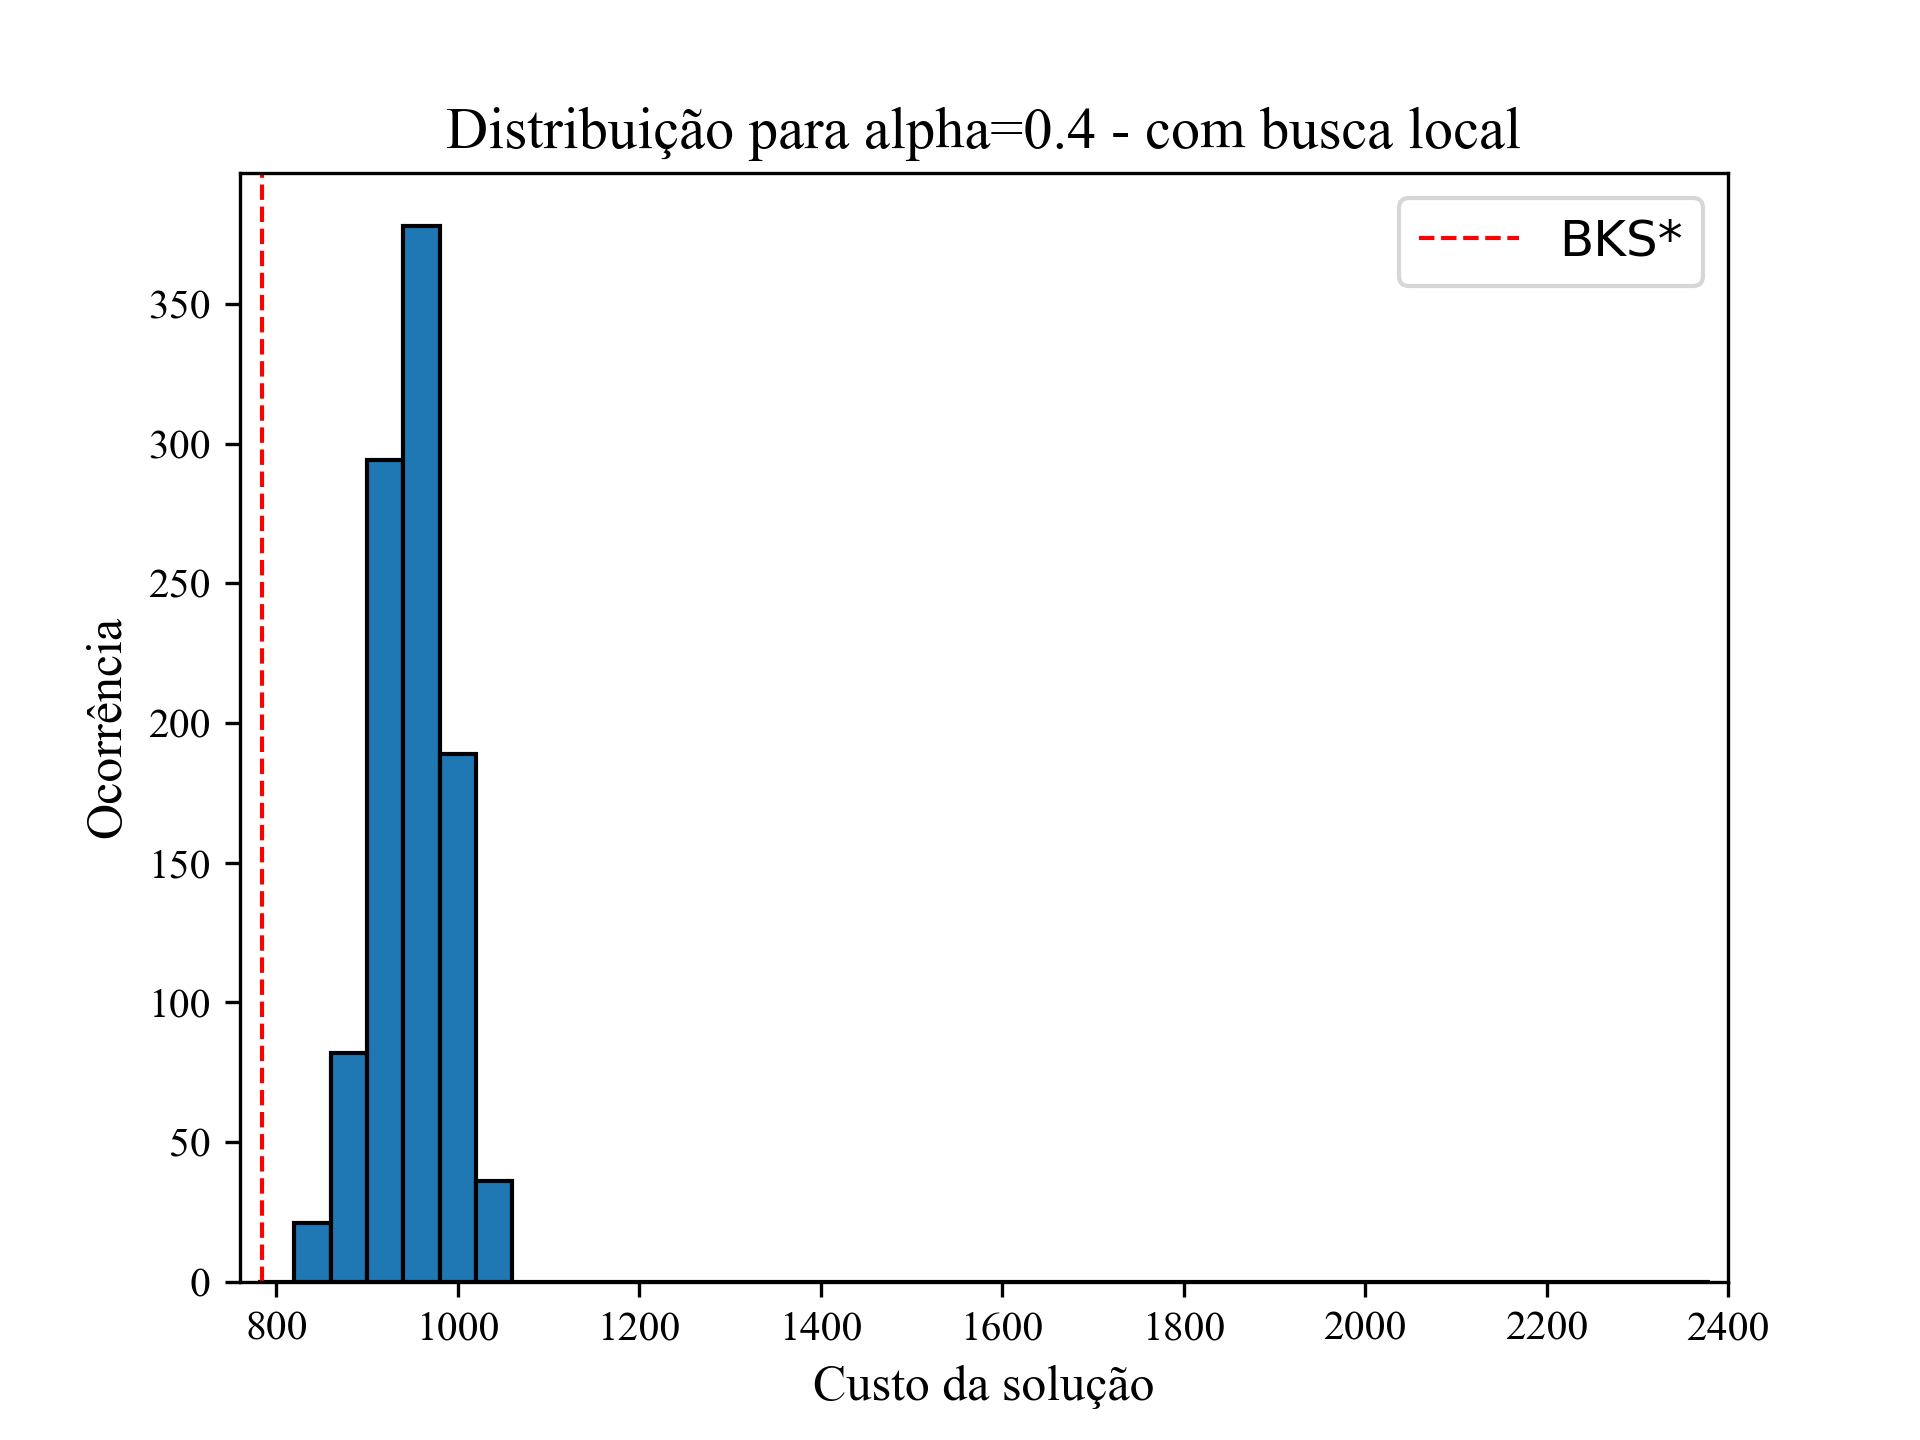
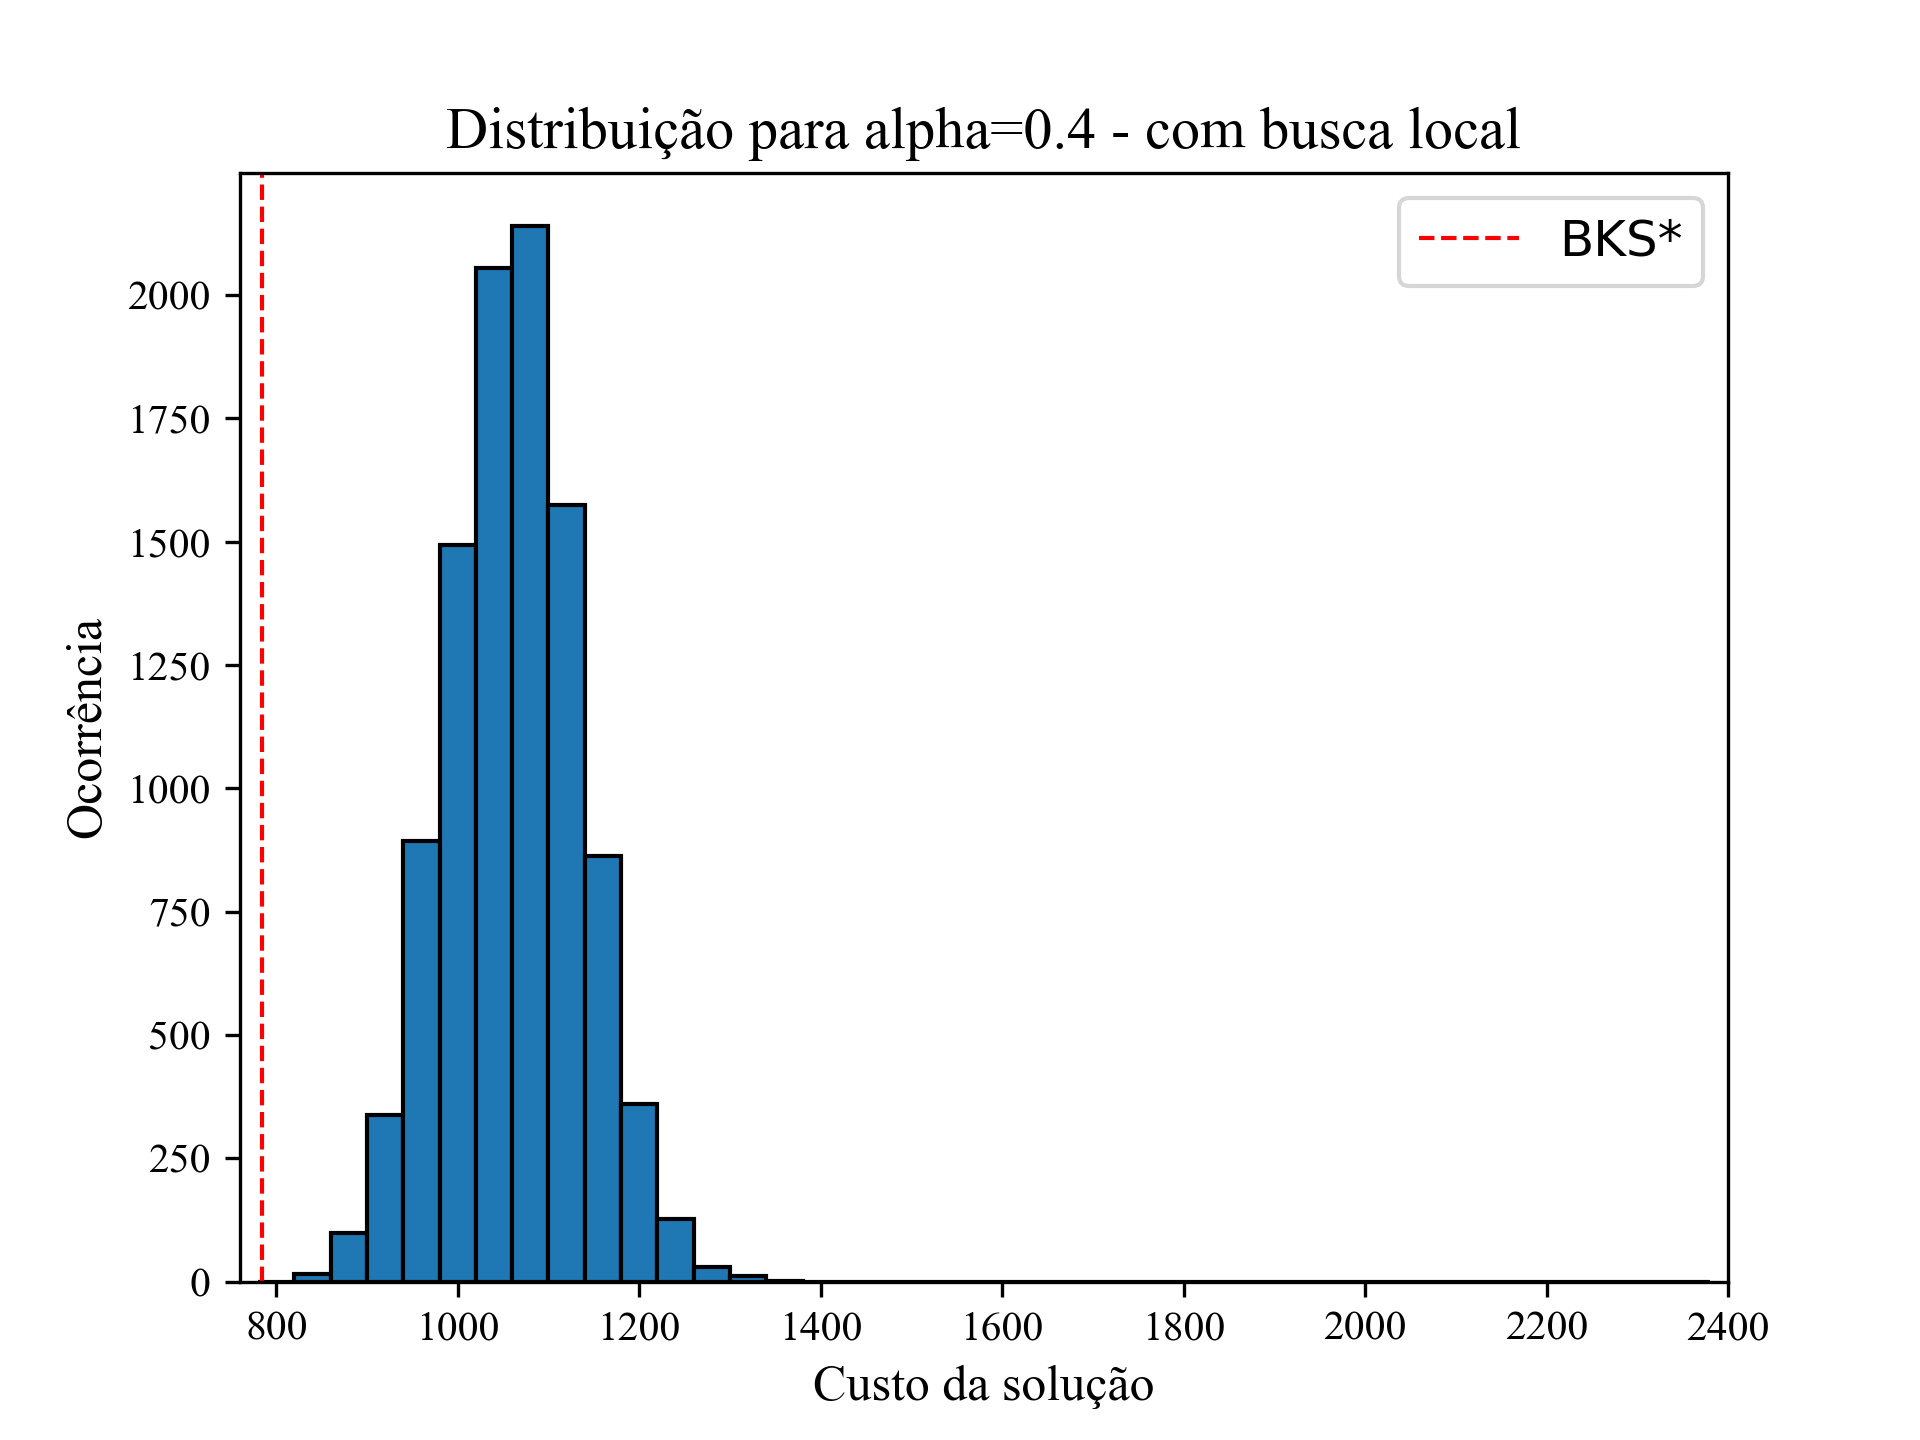
Atualizando gráficos

diff --git a/Scripts/gera_grafico.py b/Scripts/gera_grafico.py
@@ -49,7 +49,7 @@ def gera_grafico_An32k5():
 
     fig, ax = plt.subplots()
     ax.scatter(iteracoes, custos, color='blue', linewidth=0.5,s=s)
-    ax.scatter(iteracoes, b_custos, color='green', linewidth=0.8,s=s/2)
+    ax.scatter(iteracoes, b_custos, color='green', linewidth=0.8,s=s*2,label='BKS*')
 
     ax.axhline(y=784, color='red', linestyle='--', linewidth=1, label='BKS*')
 
@@ -78,7 +78,7 @@ def gera_grafico_An32k5():
     plt.colorbar(hb, label="Densidade de Pontos")
     ax.axhline(y=784, color='red', linestyle='--', linewidth=1, label='BKS*')
 
-    ax.scatter(iteracoes, b_custos, color='green', linewidth=0.8,s=s/2)
+    ax.scatter(iteracoes, b_custos, color='green', linewidth=0.8,s=s/2,label='Melhor solução')
 
 
     ax.set_title('Evolução dos custos de cada solução encontrada por iteração do GRASP', fontsize=14, fontname='Times New Roman')

diff --git a/var_alpha.py b/var_alpha.py
@@ -32,15 +32,15 @@ def main():
     
     for alpha in var_alpha:
         costs=[]
-        for i in range(1000):
-            dados=run_instance(instance,alpha,max_iter=10,neibors=[],n_iter=1)
+        for i in range(10000):
+            dados=run_instance(instance,alpha,max_iter=1,neibors=[],n_iter=1)
             costs.append(dados['Best_cost'])
         plot_save(costs,alpha,Output_dir,'SLS',"sem busca local")
     print('ok')
     for alpha in var_alpha:
         costs=[]
-        for i in range(1000):
-            dados=run_instance(instance,alpha,max_iter=10,neibors=[0,1],n_iter=1)
+        for i in range(10000):
+            dados=run_instance(instance,alpha,max_iter=1,neibors=[0,1],n_iter=1)
             costs.append(dados['Best_cost'])
         plot_save(costs,alpha,Output_dir,'CLS',"com busca local")
 

diff --git a/main.py b/main.py
@@ -15,7 +15,7 @@ def main():
         
         for instance in instances_path:
             try:
-                dados=run_instance(f'{dir}/{instance}',alpha=0.15,max_iter=15000,neibors=[0,1])
+                dados=run_instance(f'{dir}/{instance}',alpha=0.28,max_iter=30000,neibors=[0,1])
                 rows.append(dados)
                 print(instance, 'OK')
             except:
@@ -28,5 +28,5 @@ def main():
         if stop:
             break
 if __name__=='__main__':
-    ajuste_param()
+    # ajuste_param()
     main()
